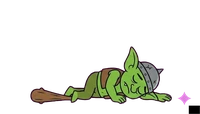
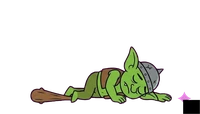
fix: knight white patches, goblin dead watermark, goblin hit flip, world map facing

Changed region(s): [[0.9, 0.8684, 1.0, 1.0]]

diff --git a/src/screens/WorldMapScreen.jsx b/src/screens/WorldMapScreen.jsx
@@ -325,7 +325,7 @@ function RegionBand({ world, worldIndex, status, trophy, score, delay, onTap, is
           position: 'absolute', inset: 0, zIndex: 2, pointerEvents: 'none',
           display: 'flex', alignItems: 'flex-end', justifyContent: 'center', gap: 12,
         }}>
-          <div style={{ transform: 'scale(0.46)', transformOrigin: 'center bottom' }}>
+          <div style={{ transform: 'scale(0.46) scaleX(-1)', transformOrigin: 'center bottom' }}>
             <KnightCharacter phase="idle" hitKey={0} />
           </div>
           <div style={{ transform: 'scale(0.46)', transformOrigin: 'center bottom' }}>
